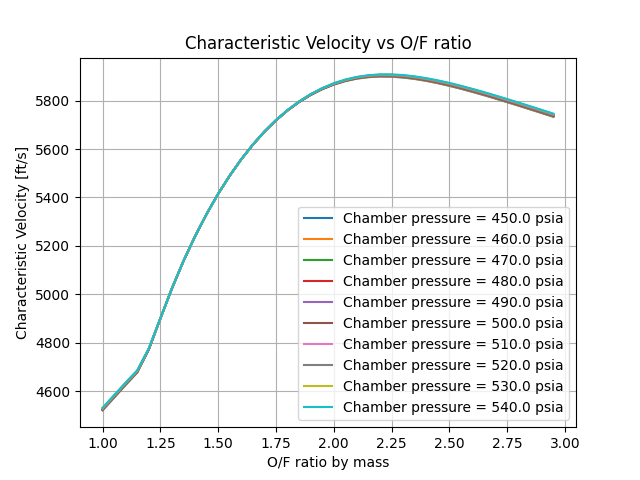
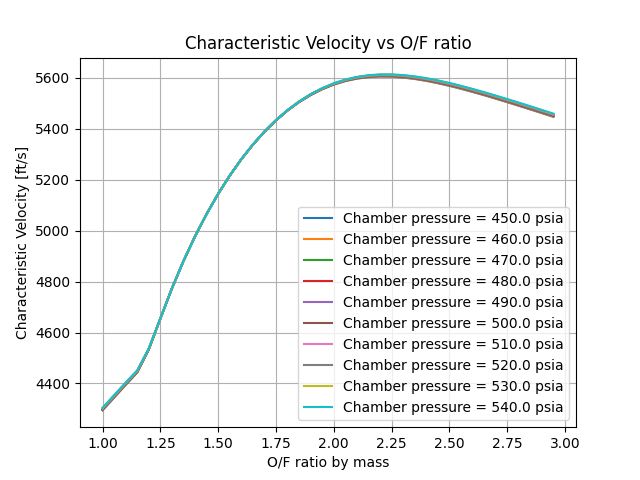
adusting for C* and cf efficiency factors on graphs

diff --git a/TCA/TCA Sizing Code Files/Final_Graphing_Script.py b/TCA/TCA Sizing Code Files/Final_Graphing_Script.py
@@ -54,6 +54,12 @@ pamb= tca_params['ambient_pressure']
 pe = tca_params['tca_exit_pressure']
 #O/F ratio
 of = tca_params['oxidizer_fuel_ratio']
+#Efficieny factor of engine (estimate)
+ef_cstar = tca_params['c_star_efficiency']
+#Efficieny factor of engine (estimate)
+ef_cf = tca_params['thrust_coefficient_efficiency']
+#Gravitational Acceleration (ft/s)
+g = 32.174
 
 #ARRAY DECLARATION
 mr_range = np.arange(mrLo, mrHi, .05)  #range of O/F ratios, from mrLo to mrHi with spacing 0.05 in between to get proper curves
@@ -71,14 +77,17 @@ plt.figure(1)
 count = 0
 for mr in mr_range:
     Eps = C.get_eps_at_PcOvPe(Pc = pc, MR = mr, PcOvPe= (pc / pe))  #Optimal Nozzle Expansion Ratio for inputs
-    isps = C.estimate_Ambient_Isp(Pc = pc, MR = mr, eps = Eps, Pamb = pamb, frozen = 0) #Calculates specific impulse (s) for given inputs
-    Isp_vals[count] = isps[0]
+    cfo = C.get_PambCf(Pamb = pamb, Pc = pc, MR = mr, eps = Eps) 
+    cstar = C.get_Cstar(Pc = pc, MR = mr) * ef_cstar    #Calculates the coefficient of thrust at given set points
+    Isp_vals[count] = (cfo[0] * ef_cf) * (cstar) / g
     count = count + 1
 plt.plot(mr_range, Isp_vals, 'b')
 Eps_chosen = C.get_eps_at_PcOvPe(Pc = pc, MR = of, PcOvPe= (pc / pe))
-Isp_chosen = C.estimate_Ambient_Isp(Pc = pc, MR = of, eps = Eps_chosen, Pamb = pamb, frozen = 0)
-plt.plot(of, Isp_chosen[0], 'ko')
-plt.text(2.15, 273, f'({of : .1f}, {Isp_chosen[0] : .1f}[s])', fontsize = 12)
+cf_chosen = C.get_PambCf(Pamb = pamb, Pc = pc, MR = of, eps = Eps_chosen)
+cstar_chosen = C.get_Cstar(Pc = pc, MR = of) * ef_cstar
+Isp_chosen = (cf_chosen[0] * ef_cf) * cstar_chosen / g
+plt.plot(of, Isp_chosen, 'ko')
+plt.text(2.15, 244, f'({of : .1f}, {Isp_chosen : .1f}[s])', fontsize = 12)
 plt.xlabel("O/F ratio by mass", fontsize = 14)
 plt.ylabel("Specific Impulse [s]", fontsize = 14)
 plt.title(f"Spec. Impulse vs O/F ratio @{pc} psia", fontsize = 17)
@@ -95,8 +104,9 @@ for p in range(pLo, pHi):
     for mr in mr_range:
       po = p * 10.0     #Multiplies p values by 10 to reach actual chamber pressure to test
       Eps = C.get_eps_at_PcOvPe(Pc = po, MR = mr, PcOvPe= (po / pe))  #Optimal Nozzle Expansion Ratio for inputs
-      isps = C.estimate_Ambient_Isp(Pc = pc, MR = mr, eps = Eps, Pamb = pamb, frozen = 0)    #Calculates specific impulse (s) for given inputs
-      Isp_vals[count] = isps[0]
+      cfo = C.get_PambCf(Pamb = pamb, Pc = po, MR = mr, eps = Eps) 
+      cstar = C.get_Cstar(Pc = po, MR = mr) * ef_cstar    #Calculates the coefficient of thrust at given set points
+      Isp_vals[count] = (cfo[0] * ef_cf) * (cstar) / g
       count = count + 1
     plt.plot(mr_range, Isp_vals, label = f'Chamber pressure = {po} psia')
 plt.xlabel("O/F ratio by mass")
@@ -148,7 +158,7 @@ plt.savefig(r"TCA\CEA Graphs\Combustion_Temps_P_Range.png")
 plt.figure(5)
 count = 0
 for mr in mr_range:
-    Cstars[count] = C.get_Cstar(Pc = pc, MR = mr)
+    Cstars[count] = C.get_Cstar(Pc = pc, MR = mr) * ef_cstar
     count = count + 1
 plt.plot(mr_range, Cstars)
 plt.xlabel("O/F ratio by mass")
@@ -164,7 +174,7 @@ for p in range(pLo, pHi):
     count = 0
     for mr in mr_range:
         po = p * 10.0     #Multiplies p values by 10 to reach actual chamber pressure to test
-        Cstars[count] = C.get_Cstar(Pc = po, MR = mr)
+        Cstars[count] = C.get_Cstar(Pc = po, MR = mr) * ef_cstar
         count = count + 1
     plt.plot(mr_range, Cstars, label = f'Chamber pressure = {po} psia')
 plt.xlabel("O/F ratio by mass")
@@ -181,7 +191,7 @@ count = 0
 for mr in mr_range:
     Eps = C.get_eps_at_PcOvPe(Pc = po, MR = mr, PcOvPe= (po / pe))   #Optimal Nozzle Expansion Ratio for inputs
     cfo = C.get_PambCf(Pamb = pamb, Pc = pc, MR = mr, eps = Eps)     #Calculates the coefficient of thrust at given set points
-    Cf_vals[count] = cfo[0]    
+    Cf_vals[count] = cfo[0] * ef_cf   
     count = count + 1
 plt.plot(mr_range, Cf_vals)
 plt.xlabel("O/F ratio by mass")
@@ -199,7 +209,7 @@ for p in range(pLo, pHi):
       po = p * 10.0    #Multiplies p values by 10 to reach actual chamber pressure to test
       Eps = C.get_eps_at_PcOvPe(Pc = po, MR = mr, PcOvPe= (po / pe))   #Optimal Nozzle Expansion Ratio for inputs
       cfo = C.get_PambCf(Pamb = pamb, Pc = po, MR = mr, eps = Eps)     #Calculates the coefficient of thrust at given set points
-      Cf_vals[count] = cfo[0]
+      Cf_vals[count] = cfo[0] * ef_cf
       count = count + 1
     plt.plot(mr_range, Cf_vals, label = f'Chamber pressure = {po} psia')
 plt.xlabel("O/F ratio by mass")
